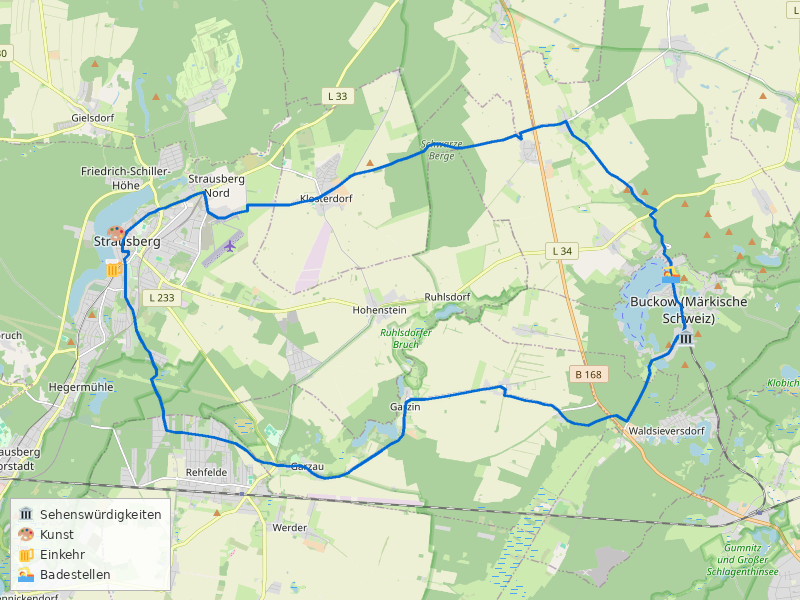
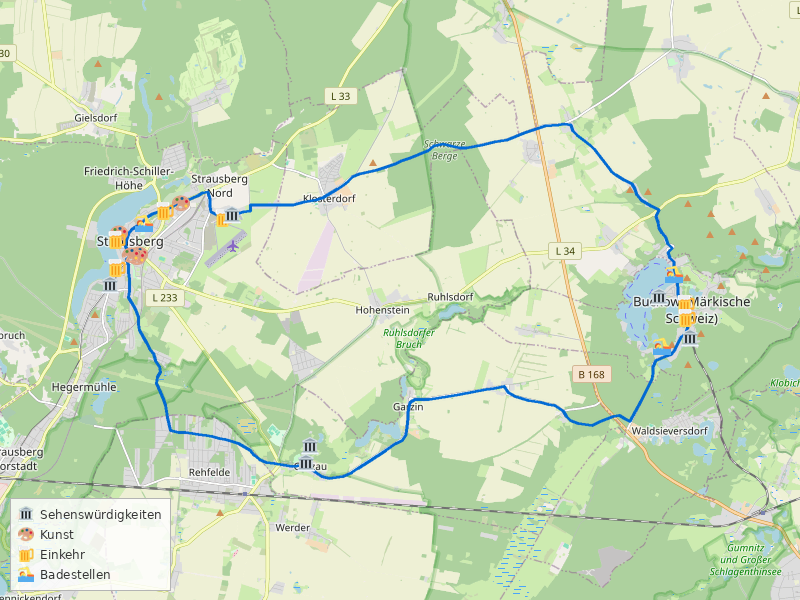
fix: remove GPX spurs, fix map zoom, add consistency hook
- Remove last spur from strausberg-buckow GPX (39.1→38.6 km)
- Fix eberswalde map zoom by removing outlier POI 30 km off-route
- Re-render affected maps and elevation profiles
- Add GPX consistency hook to auto-check artifacts on GPX edits
- Add default departure time (09:00) to steering

diff --git a/routes/strausberg-buckow.md b/routes/strausberg-buckow.md
@@ -3,7 +3,7 @@
 
 # Strausberg–Buckow-Runde ab S Strausberg Nord
 
-**Distanz:** ~39 km (39,1 km lt. BRouter)
+**Distanz:** ~39 km (38,6 km lt. BRouter)
 **Fahrzeit:** ca. 2,5–3,5 Std. (ohne Pausen)
 **Routentyp:** Rundtour, hügelig (Märkische Schweiz)
 **Start/Ziel:** S Strausberg Nord (S5)

diff --git a/.kiro/steering/radtouren-planung.md b/.kiro/steering/radtouren-planung.md
@@ -109,6 +109,7 @@ Category names match Overpass output — pass POI results through directly.
 ## Public Transit Rules
 
 - **Home station**: S Blankenfelde (TF) Bhf (lines: S2, RB24, RE5, RE7, RE8).
+- **Default departure**: ~09:00 Uhr ab Blankenfelde. Query outbound connections starting from 08:45.
 - **Default group**: 2 persons + 2 bicycles. Calculate fares and recommend cheapest option.
 - 1–2 transfers acceptable.
 - Every tour MUST include: `> 🚲 Fahrradmitnahme in S-Bahn und Regionalbahn ist im VBB möglich (Fahrradkarte erforderlich).`